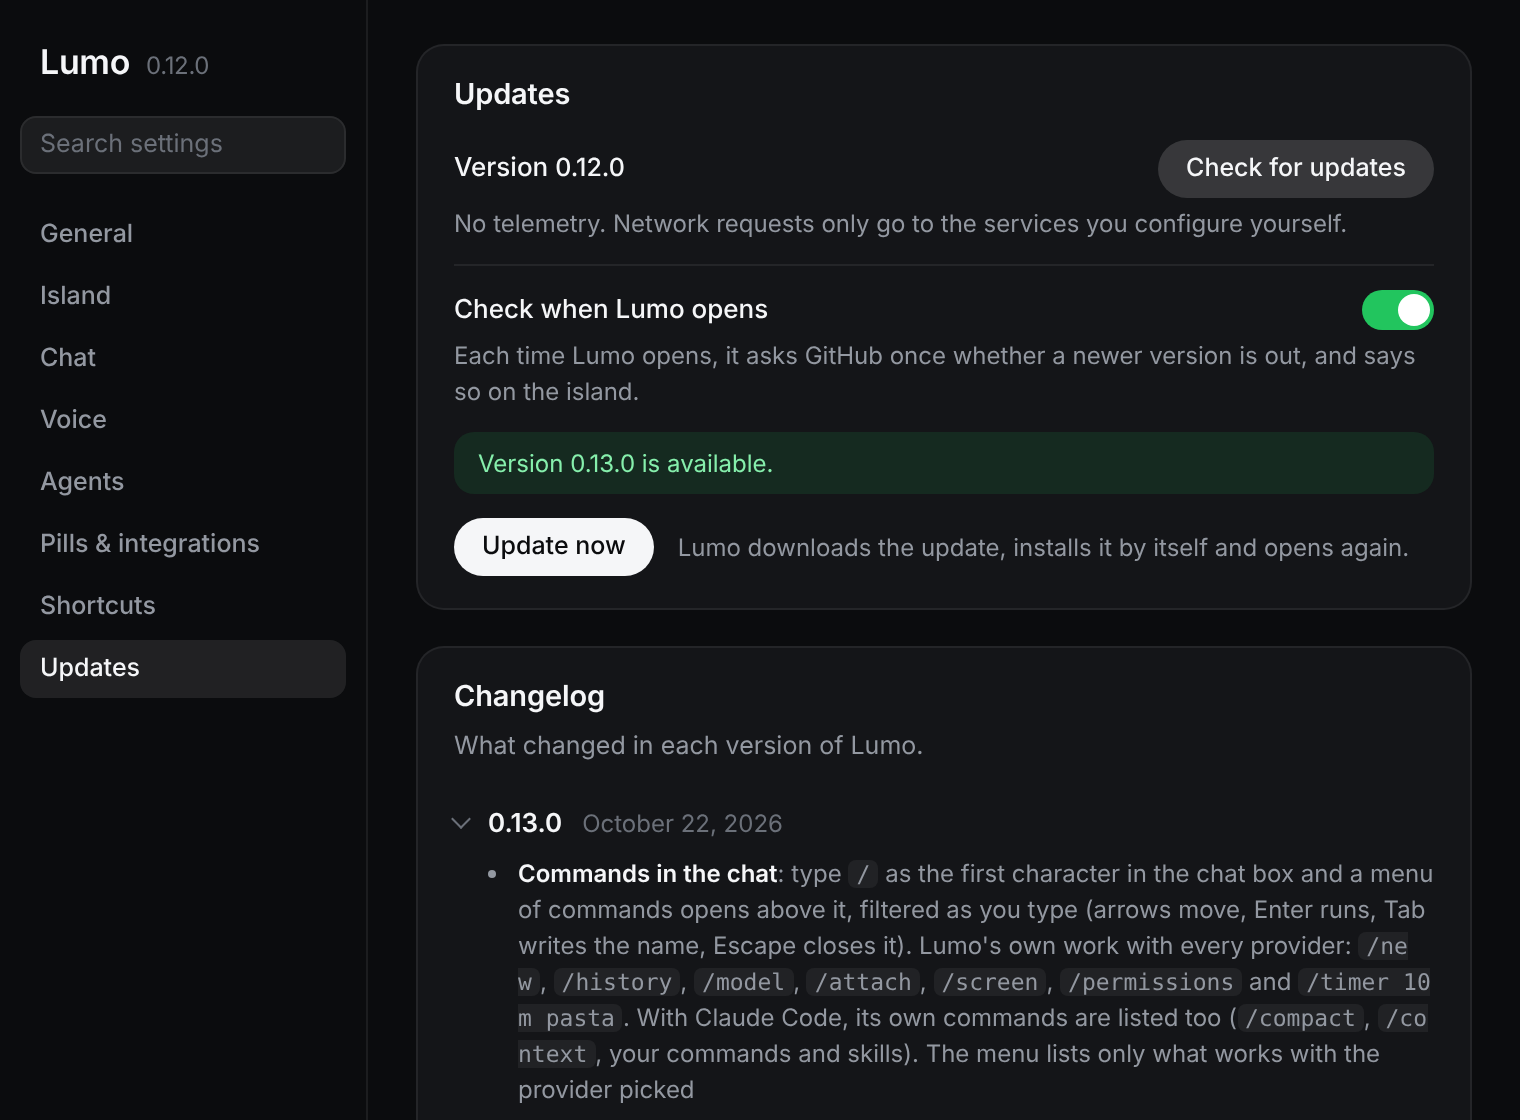
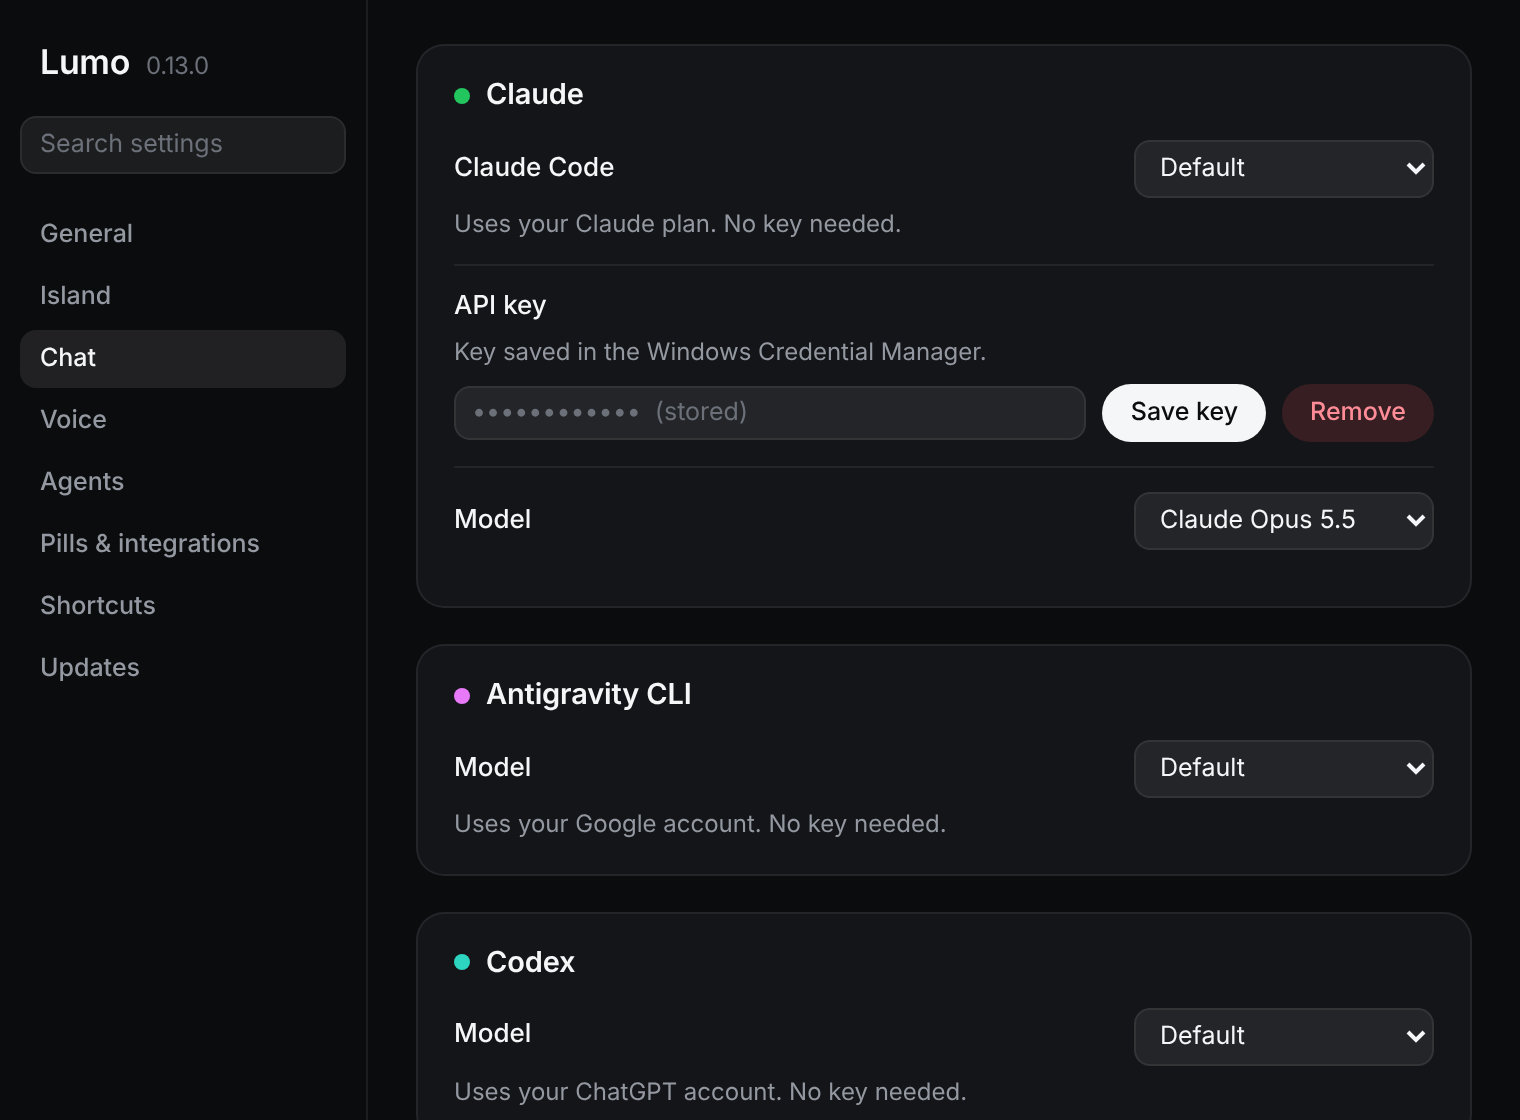
Settings screenshot on Chat
Claude-Session: https://claude.ai/code/session_01QEyAenrV1yZUiei8Vkccmn

diff --git a/windows/README.md b/windows/README.md
@@ -338,7 +338,7 @@ and they can't send, move, mark or delete anything.
 
 ## Claude Code
 
-<img src="screenshots/settings.png" width="640" alt="The settings window, on Updates: a newer version, Update now and the changelog">
+<img src="screenshots/settings.png" width="640" alt="The settings window, on Chat: Claude, Antigravity CLI and Codex">
 
 Open **Settings… → Agents → Claude Code → Install hooks…**. You get the exact diff of what
 will change in `%USERPROFILE%\.claude\settings.json`, the path of the dated backup
